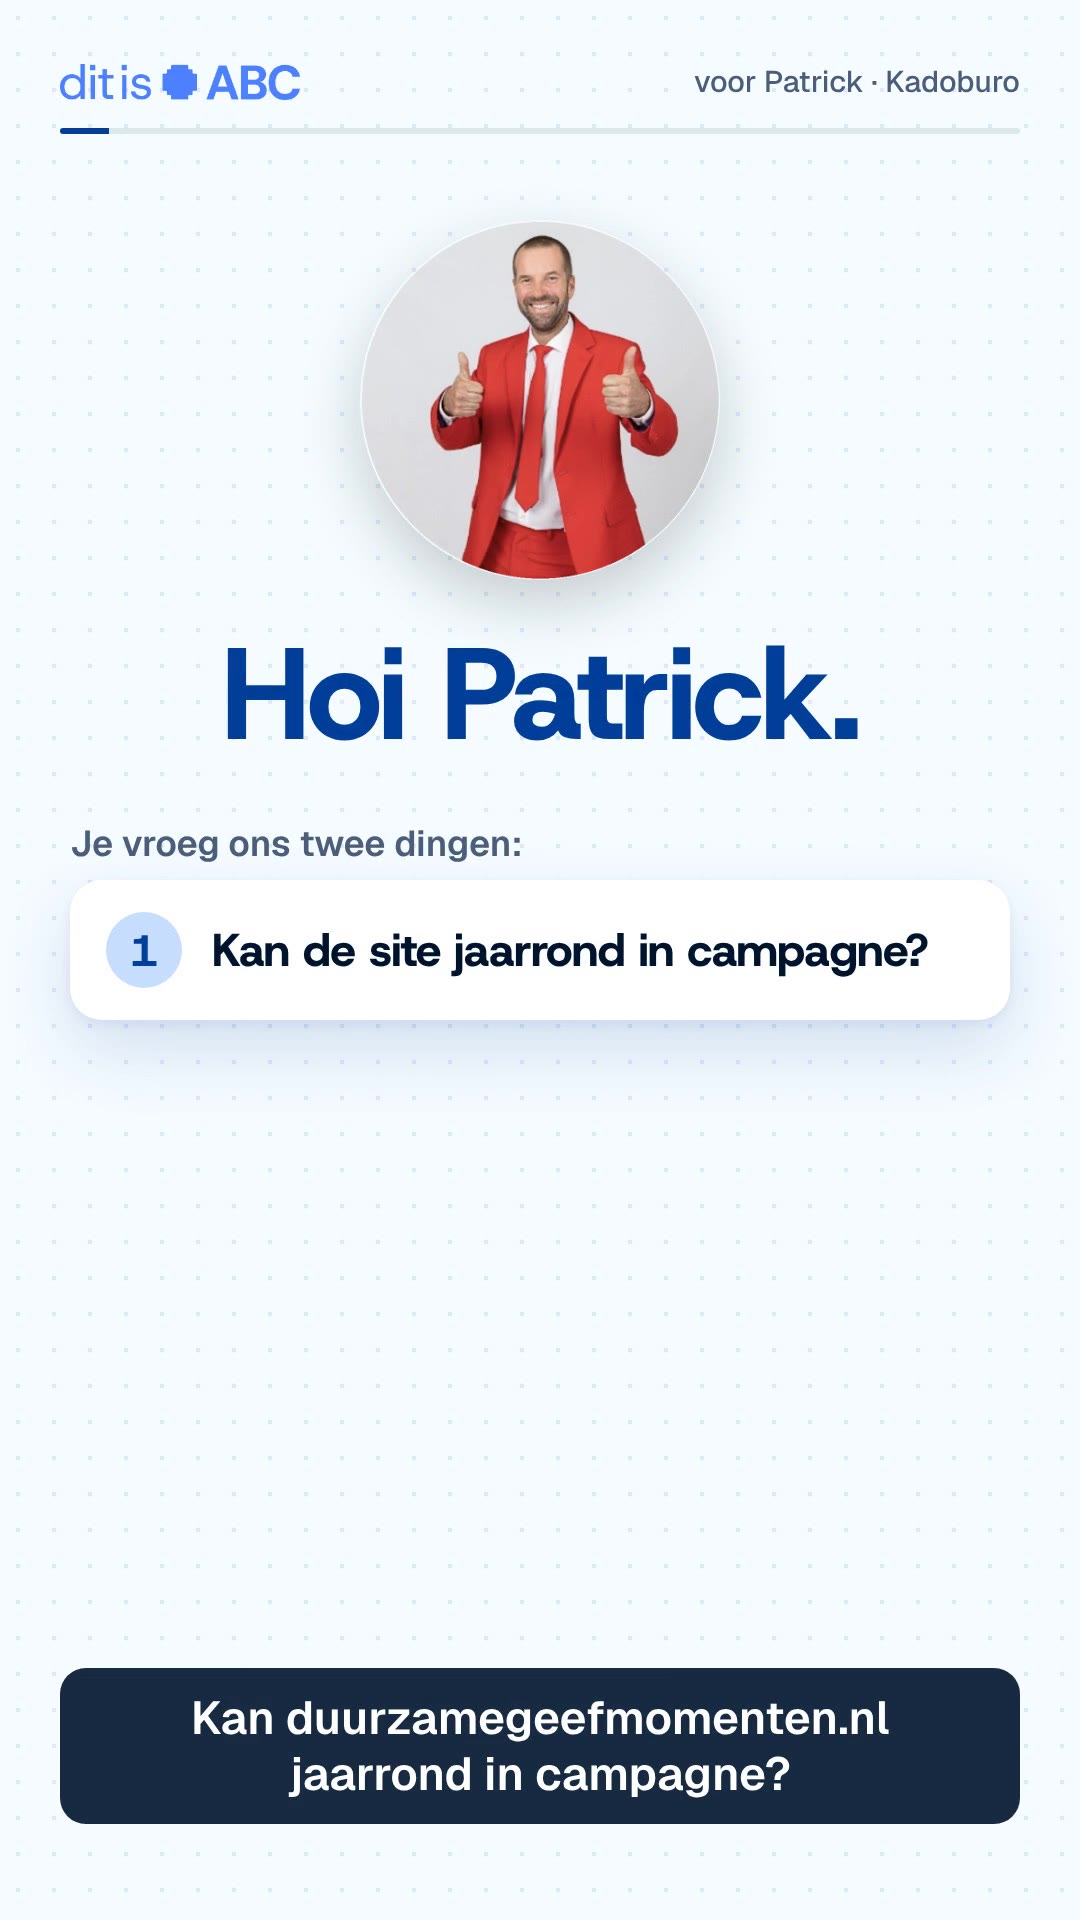
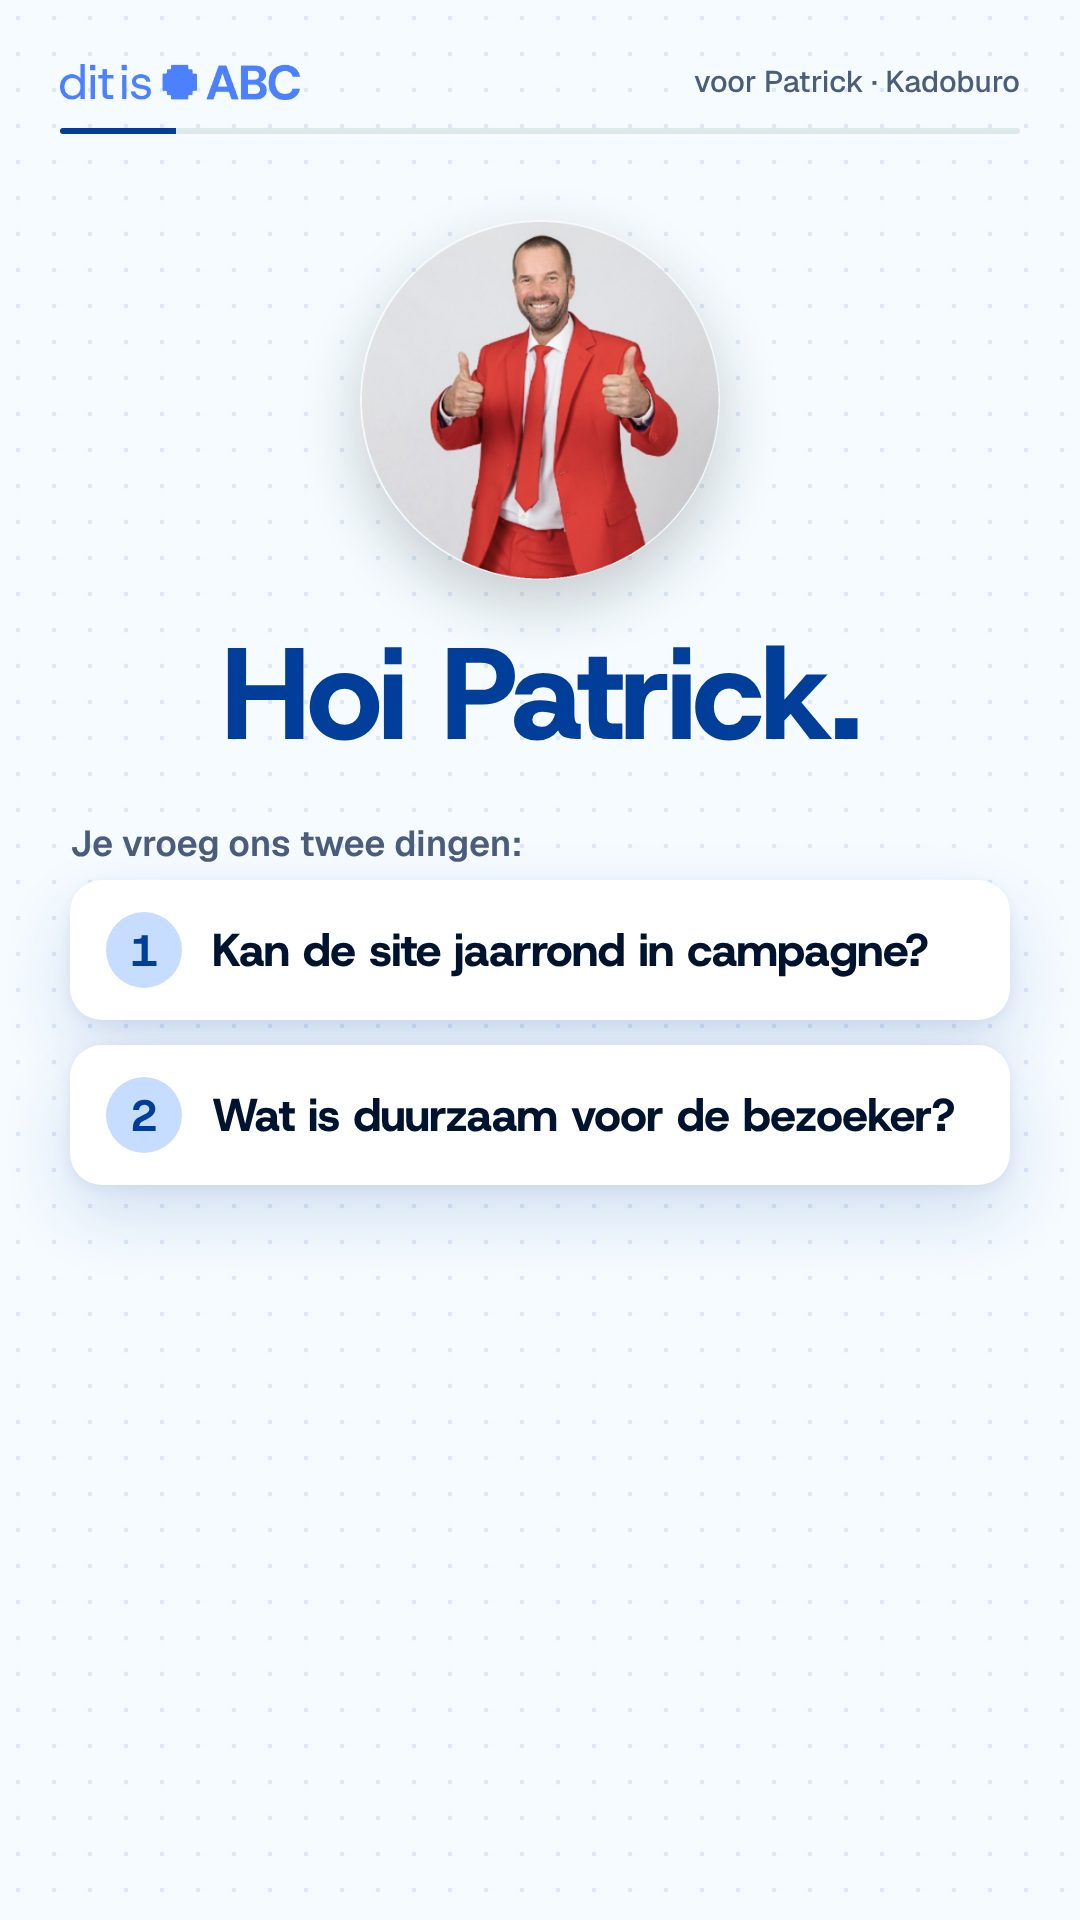
Kadoburo: duidelijke afspeelknop op de video, poster zonder ondertitel
Claude-Session: https://claude.ai/code/session_01U4sYEF9LnTAPiF1NZAWbWr

Changed region(s): [[0.0306, 0.8438, 0.9472, 0.9688], [0.0917, 0.5312, 0.9167, 0.625]]

diff --git a/kadoburo/index.html b/kadoburo/index.html
@@ -70,6 +70,18 @@ h1,h2,h3{font-family:"Host Grotesk",Geist,sans-serif;font-weight:800;letter-spac
 .knoppen{display:flex;flex-wrap:wrap;gap:10px}
 .phone{justify-self:center;width:min(100%,360px);background:var(--ink);border-radius:34px;padding:10px;box-shadow:0 30px 60px rgba(0,19,46,.32)}
 .phone video{width:100%;aspect-ratio:9/16;border-radius:26px;background:#000;object-fit:cover}
+.vwrap{position:relative;border-radius:26px;overflow:hidden}
+.vplay{position:absolute;inset:0;border:0;padding:0;cursor:pointer;background:linear-gradient(180deg,rgba(0,19,46,0) 45%,rgba(0,19,46,.78) 100%);display:flex;flex-direction:column;align-items:center;justify-content:center;gap:16px;color:#fff;font:inherit}
+.vplay .pb{width:96px;height:96px;border-radius:50%;background:var(--orange);display:grid;place-items:center;box-shadow:0 0 0 0 rgba(255,113,65,.6);animation:puls 2s infinite;transition:transform .2s}
+.vplay:hover .pb,.vplay:focus-visible .pb{transform:scale(1.08)}
+.vplay .pb svg{width:38px;height:38px;margin-left:6px}
+.vplay .vl{position:absolute;left:0;right:0;bottom:22px;text-align:center;font:800 22px/1.15 "Host Grotesk",sans-serif}
+.vplay .vl small{display:block;font:500 14px "Geist",sans-serif;opacity:.9;margin-top:4px}
+.vtag{position:absolute;top:56px;left:14px;z-index:2;background:rgba(0,19,46,.78);color:#fff;font:600 13px "Geist",sans-serif;border-radius:999px;padding:5px 11px;display:flex;align-items:center;gap:6px;pointer-events:none}
+.vtag i{width:8px;height:8px;border-radius:50%;background:var(--orange)}
+@keyframes puls{0%{box-shadow:0 0 0 0 rgba(255,113,65,.55)}70%{box-shadow:0 0 0 22px rgba(255,113,65,0)}100%{box-shadow:0 0 0 0 rgba(255,113,65,0)}}
+@media (prefers-reduced-motion:reduce){.vplay .pb{animation:none}}
+.vwrap.speelt .vplay,.vwrap.speelt .vtag{display:none}
 .dur{margin-top:12px;text-align:center;font-size:14px;color:#fff;font-weight:500}
 @media (min-width:900px){.hero .wrap{grid-template-columns:1.2fr .8fr;padding-top:48px;padding-bottom:72px}.hcard{padding:40px 40px}}
 
@@ -287,8 +299,9 @@ footer .claim{font:800 18px "Host Grotesk",sans-serif;color:var(--head)}
     <div class="knoppen"><a class="btn p" href="#afspraak">Plan een afspraak</a><a class="btn o" href="#eerst">Lees de analyse</a></div>
   </div>
   <div>
-    <div class="phone"><video controls playsinline preload="metadata" poster="media/poster.jpg" src="media/ditisabc-voor-duurzamegeefmomenten.mp4"></video></div>
+    <div class="phone"><div class="vwrap" id="vwrap"><video playsinline preload="metadata" poster="media/poster.jpg" src="media/ditisabc-voor-duurzamegeefmomenten.mp4"></video><span class="vtag"><i></i>Video · 1:18</span><button class="vplay" type="button" aria-label="Speel de video af, 1 minuut 18"><span class="pb"><svg viewBox="0 0 24 24" fill="#fff"><path d="M7 4.5v15a1 1 0 0 0 1.5.86l12.5-7.5a1 1 0 0 0 0-1.72L8.5 3.64A1 1 0 0 0 7 4.5z"/></svg></span><span class="vl">Bekijk de video<small>Michel legt het uit in 1:18</small></span></button></div></div>
     <div class="dur">Met geluid kijken. Ondertitels staan in beeld.</div>
+    <script>(function(){var w=document.getElementById("vwrap"),v=w.querySelector("video");w.querySelector(".vplay").addEventListener("click",function(){w.classList.add("speelt");v.controls=true;v.play()});})();</script>
   </div>
 </div></div></div>
 
